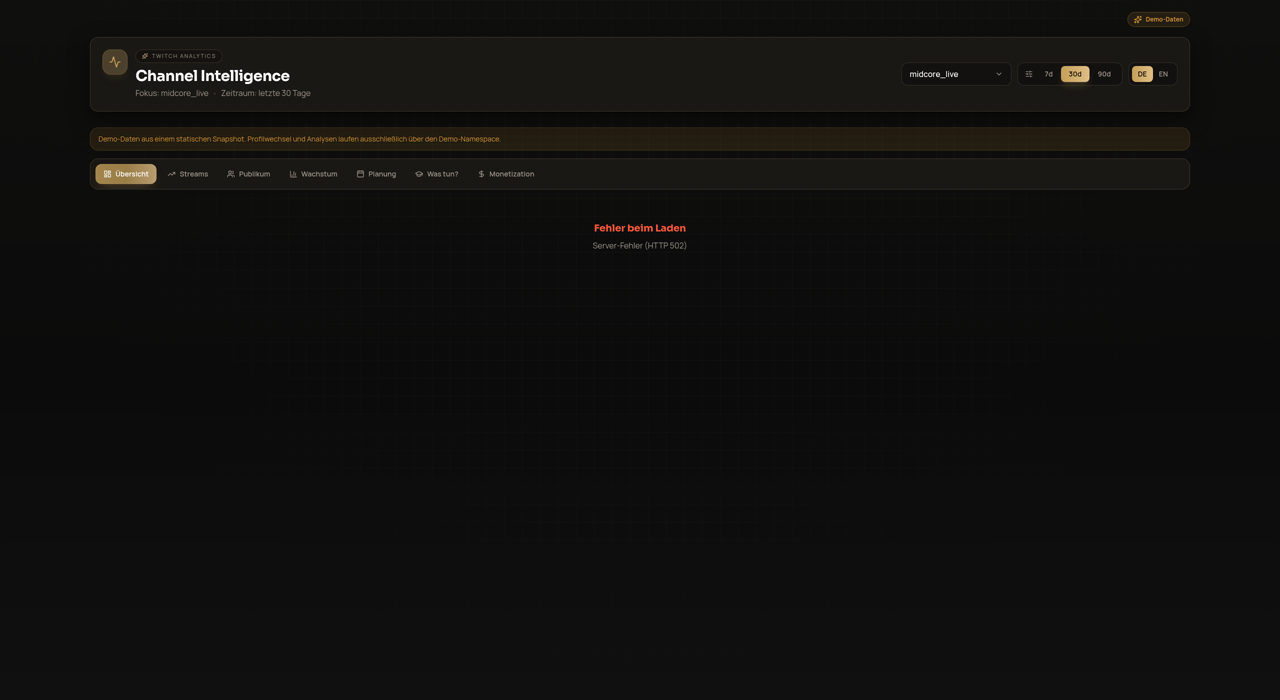
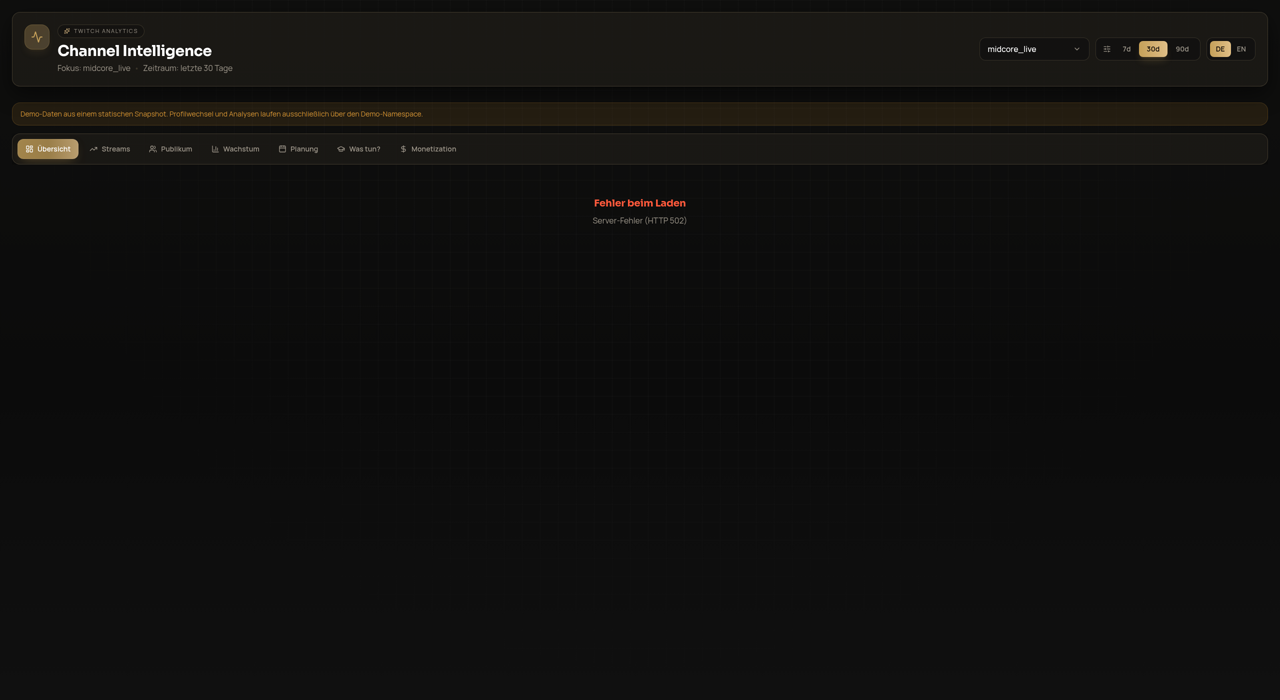
REQ-08: AuthBadge über dem Analyse-Kopf entfernen
Die Badge-Zeile und die AuthBadge-Definition in AnalyticsDashboard
fallen weg, damit Sidebar und erste Inhaltskarte auf allen Routen
gleich hoch beginnen. Die dadurch ungenutzten lucide-Imports und die
Destructuring-Bindungen loadingAuth und authError sind mit entfernt;
der Demo-Hinweisbanner bleibt. Regressionstest prüft, dass App.tsx
keinen AuthBadge mehr trägt. Screenshots dashboard, analyse und uplink
neu.

diff --git a/bot/dashboard_v2/src/App.tsx b/bot/dashboard_v2/src/App.tsx
@@ -37,14 +37,7 @@ import {
 } from '@/preview/routes';
 import { shouldRetryApiQuery } from '@/api/httpError';
 import { dashboardRuntimeConfig, resolveEffectiveDemoMode } from '@/runtimeConfig';
-import {
-  AlertTriangle,
-  Sparkles,
-  Shield,
-  ShieldAlert,
-  ShieldCheck,
-  Wifi,
-} from 'lucide-react';
+import { AlertTriangle } from 'lucide-react';
 
 // Error Boundary to prevent white screen on crashes
 interface ErrorBoundaryProps {
@@ -160,7 +153,7 @@ function AnalyticsDashboard() {
   );
 
   const { data: streamers = [], isLoading: loadingStreamers } = useStreamerList();
-  const { data: authStatus, isLoading: loadingAuth, isError: authError } = useAuthStatus();
+  const { data: authStatus } = useAuthStatus();
   const isDemoShell = resolveEffectiveDemoMode({
     pathname: window.location.pathname,
     runtimeConfig: dashboardRuntimeConfig,
@@ -245,63 +238,8 @@ function AnalyticsDashboard() {
     setPendingMode(null);
   };
 
-  // Auth badge component
-  const AuthBadge = () => {
-    const badgeBase =
-      'flex items-center gap-2 px-3 py-1.5 rounded-full border text-xs font-semibold tracking-wide backdrop-blur-md';
-
-    if (loadingAuth) return null;
-
-    if (isDemoMode) {
-      return (
-        <div className={`${badgeBase} bg-warning/10 border-warning/30 text-warning`}>
-          <Sparkles className="w-4 h-4" />
-          <span>{t('Demo-Daten')}</span>
-        </div>
-      );
-    }
-
-    if (authError || !authStatus?.authenticated) {
-      return (
-        <div className={`${badgeBase} bg-error/10 border-error/30 text-error`}>
-          <ShieldAlert className="w-4 h-4" />
-          <span>{t('Nicht authentifiziert')}</span>
-        </div>
-      );
-    }
-
-    if (authStatus.isLocalhost) {
-      return (
-        <div className={`${badgeBase} bg-success/10 border-success/30 text-success`}>
-          <Wifi className="w-4 h-4" />
-          <span>{t('Localhost (Admin)')}</span>
-        </div>
-      );
-    }
-
-    if (authStatus.isAdmin) {
-      return (
-        <div className={`${badgeBase} bg-primary/10 border-primary/30 text-primary`}>
-          <ShieldCheck className="w-4 h-4" />
-          <span>{t('Admin')}</span>
-        </div>
-      );
-    }
-
-    return (
-      <div className={`${badgeBase} bg-accent/10 border-accent/30 text-accent`}>
-        <Shield className="w-4 h-4" />
-        <span>{t('Partner')}</span>
-      </div>
-    );
-  };
-
   return (
     <DashboardShell activeRoute="analyse" demoMode={isDemoMode}>
-        <div className="flex justify-end">
-          <AuthBadge />
-        </div>
-
         <PlanProvider
           plan={authStatus?.plan ?? null}
           isAdmin={authStatus?.isAdmin ?? false}

diff --git a/bot/dashboard_v2/tests/dashboardShell.test.ts b/bot/dashboard_v2/tests/dashboardShell.test.ts
@@ -140,3 +140,7 @@ test('DashboardShell laesst ohne Sidebar-Freigabe Sidebar und Profil-Hook aus', 
     'Der Zweig ohne Sidebar-Freigabe darf DashboardSidebar nicht mounten',
   );
 });
+
+test('App.tsx traegt keine AuthBadge-Zeile mehr ueber dem Analyse-Kopf', () => {
+  assert.doesNotMatch(APP, /AuthBadge/);
+});

diff --git a/.tasks/2026-09-04-dashboard-schwarz-kacheln/PLAN.md b/.tasks/2026-09-04-dashboard-schwarz-kacheln/PLAN.md
@@ -48,3 +48,14 @@ research: RESEARCH.md, EVIDENCE.md
 ## Befunde ausserhalb des Scopes
 
 - bot/dashboard_v2/src/components/socialmedia/LayoutEditor.tsx:243 und :245 tragen harte warme Diagonal-Streifen (`repeating-linear-gradient(45deg, rgba(197,160,89,0.18) ...)`), die die Quell- und Ziel-Rahmen im Social-Layout-Editor braun-gestreift wirken lassen. Liegt ausserhalb des erlaubten Bereichs (weder Shell noch Kartenklassen), daher nicht geaendert.
+
+## Runde 2 (REQ-07, REQ-08)
+
+status: fertig
+
+- REQ-07: DashboardShell.tsx:20 Wurzelcontainer von `relative mx-auto max-w-[2200px]` auf `relative` (volle Breite, kein mx-auto, kein max-w-); Demo-Zweig ohne Sidebar nutzt denselben Container. Test dashboardShell.test.ts:57 auf das neue Soll umgestellt (doesNotMatch mx-auto und max-w-).
+  - TESTNACHWEIS REQ-07 Sabotage: max-w-[2200px] wieder in die Shell -> Test "die Shell traegt Hintergrund, Gesamtbreite, Sidebar-Spalte und den Main-Slot" not ok 3 (Ist: match auf max-w-, Soll: doesNotMatch), Sabotage zurueckgenommen -> ok 3.
+- REQ-08: App.tsx Badge-Zeile `<div className="flex justify-end"><AuthBadge /></div>` und die AuthBadge-Definition entfernt; ungenutzte lucide-Imports (Sparkles, Shield, ShieldAlert, ShieldCheck, Wifi) und die dadurch ungenutzten Destructuring-Bindungen loadingAuth und authError entfernt. i18n-Schluessel t('Partner') und t('Demo-Daten') bleiben (weiter genutzt in SocialMediaAdmin.tsx und Header.tsx), Dictionary unangetastet. Demo-Hinweisbanner bleibt.
+  - TESTNACHWEIS REQ-08: neuer Test "App.tsx traegt keine AuthBadge-Zeile mehr ueber dem Analyse-Kopf" (doesNotMatch AuthBadge). Vor dem Fix not ok 9 (Ist: AuthBadge in App.tsx vorhanden, Soll: keins), nach dem Fix ok, npm test 184 pass 0 fail 0 skipped.
+- Validierung: npm test 184 pass/0 fail/0 skipped, tsc exit=0, vite build exit=0.
+- Sichtpruefung: screens/dashboard.png, screens/analyse.png (`/`), screens/uplink.png ersetzt (Port 4176). Sidebar bündig am linken Rand nach dem Außenabstand; Sidebar-Oberkante und erste Inhaltskarte auf gleicher Höhe (dashboard, uplink); auf `/` kein AuthBadge mehr über dem Kopf, Demo-Banner bleibt.
